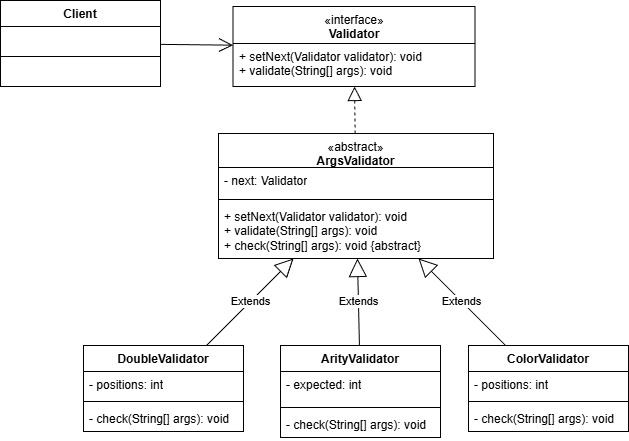
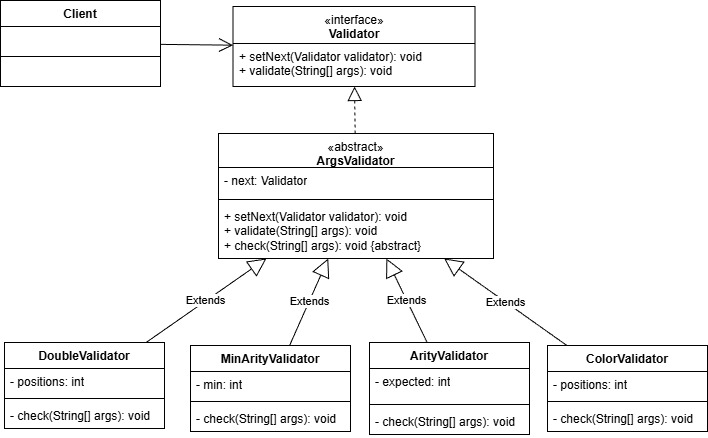
update

diff --git a/doc/rapport.tex b/doc/rapport.tex
@@ -193,12 +193,12 @@ J'ai hésité à utiliser quatre patrons de conception que j'ai finalement retir
 
 Le pattern Strategy a été envisagé pour les différentes couleurs (bleu, rouge, etc.) mais finalement ce serait \emph{overkill} d'utiliser ce pattern dans notre cas puisque je n'ai pas de système très poussé avec différents thèmes par exemple.\\\\
 
-Le pattern Builder a été envisagé également pour la construction des commandes. J'aurais pu créer un Builder par commande, mais cela aurait engendré une explosion de classes sans valeur architecturale. Un Builder par famille de commandes aurait également été envisageable, mais cela violerait le principe de responsabilité unique en construisant par exemple un rectangle et un cercle dans le même Builder. J'ai donc opté pour la Chain of Responsibility pour la validation des arguments, combinée à la CommandFactory avec lambda pour la construction.\\
+Le pattern Builder a été envisagé également pour la construction des commandes. J'aurais pu créer un Builder par commande, mais cela aurait engendré une explosion de classes sans valeur architecturale. Un Builder par famille de commandes aurait également été envisageable, mais cela violerait le principe de responsabilité unique en construisant par exemple un rectangle et un cercle dans le même Builder. J'ai donc opté pour le pattern Chain of Responsibility pour la validation des arguments, combinée à la CommandFactory avec lambda pour la construction.\\
 Ce patron n'ayant pas été abordé en cours, je me suis appuyé sur la littérature disponible pour guider mes choix architecturaux.\\\\
 
-Le pattern Factory Method a été aussi envisagé pour être appliquée dans CommandRegistry via une méthode createCommand(). Cependant ce comportement est déjà assuré par la CommandFactory sous forme de lambda. Je trouve cela plus concis et cela ne nécessite pas de sous-classes de CommandRegistry.\\\\
+Le pattern Factory Method a aussi été envisagé pour être appliquée dans CommandRegistry via une méthode createCommand(). Cependant ce comportement est déjà assuré par la CommandFactory sous forme de lambda. Je trouve cela plus concis et cela ne nécessite pas de sous-classes de CommandRegistry.\\\\
 
-L'Abstract Factory a aussi été envisagé pour créer des familles de commandes selon le profil de l'éditeur : Ce patron aurait été particulièrement pertinent si l'application devait supporter plusieurs profils d'éditeurs avec des fonctionnalités différentes (basic, premium, etc...). Cependant, l'application n'étant pas amenée à évoluer dans ce sens dans, ce patron aurait introduit une complexité non justifiée par les besoins actuels.\\
+L'Abstract Factory a aussi été envisagé pour créer des familles de commandes selon le profil de l'éditeur : Ce patron aurait été particulièrement pertinent si l'application devait supporter plusieurs profils d'éditeurs avec des fonctionnalités différentes (basic, premium, etc...). Cependant, l'application n'étant pas amenée à évoluer dans ce sens, ce patron aurait introduit une complexité non justifiée par les besoins actuels.\\
 
 \newpage
 

diff --git a/README.md b/README.md
@@ -28,6 +28,6 @@ java -jar target/outils-dessin-vectoriel-1.0.jar
 mvn javadoc:javadoc
 ```
 
-La documentation HTML est produite dans le dossier `javadoc/` (ouvrir `javadoc/index.html` dans un navigateur).
+La documentation HTML est produite dans le dossier `javadoc/` (ouvrir `javadoc/apidocs/index.html` dans un navigateur).
 
 Le rapport du projet se trouve dans `doc/rapport.tex`.